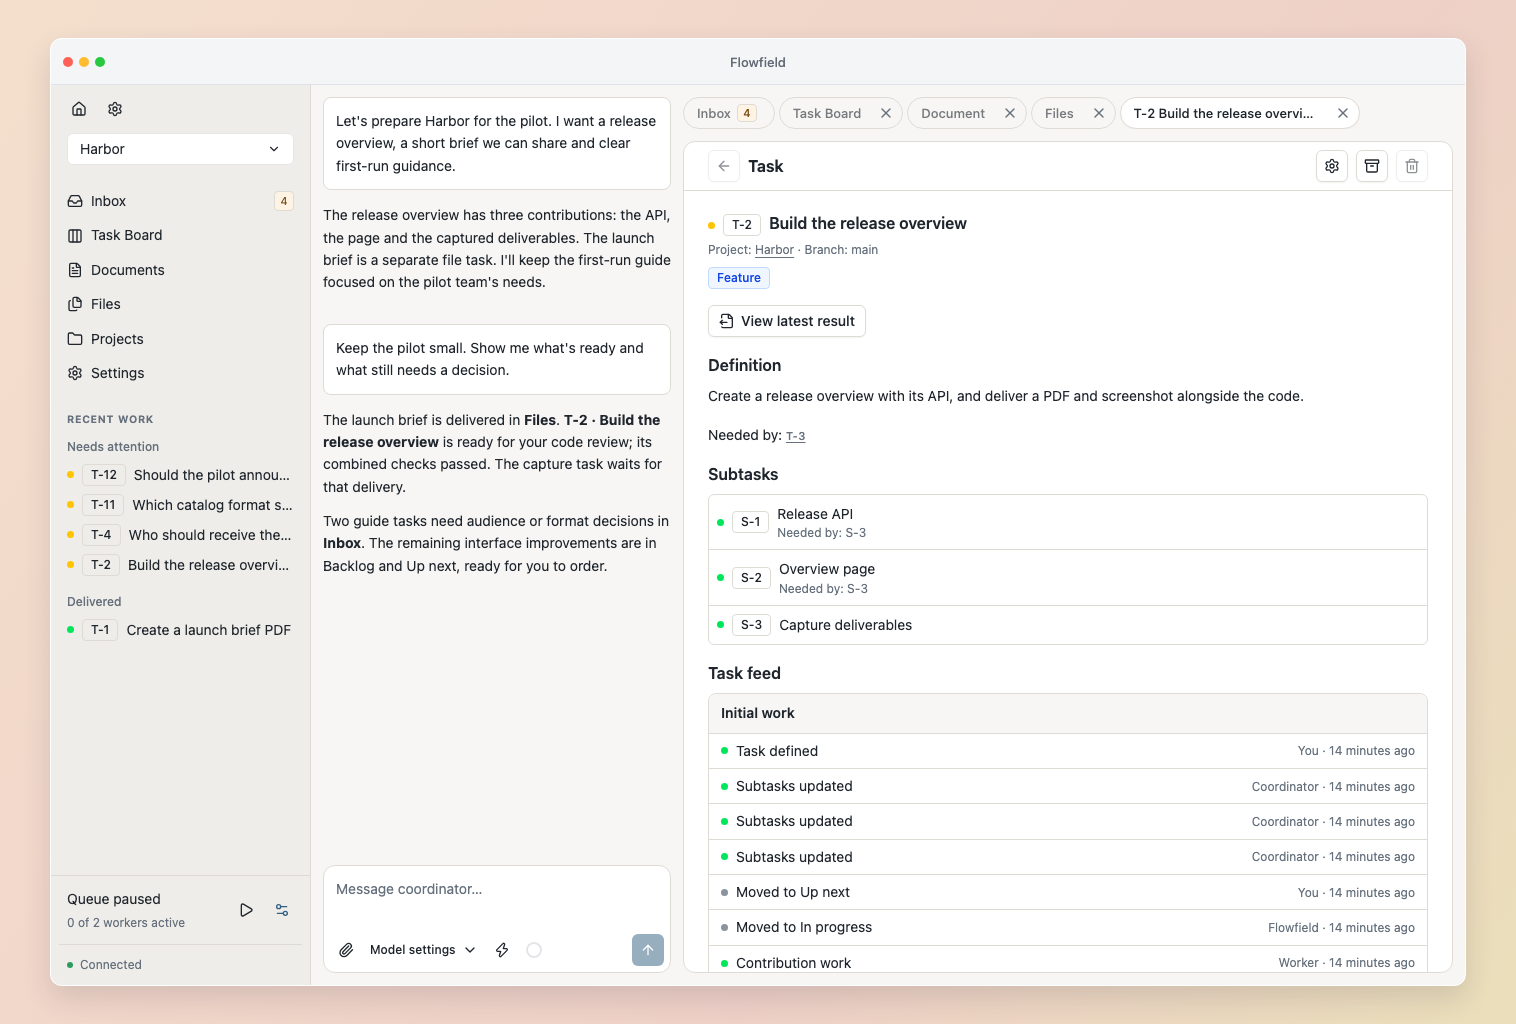
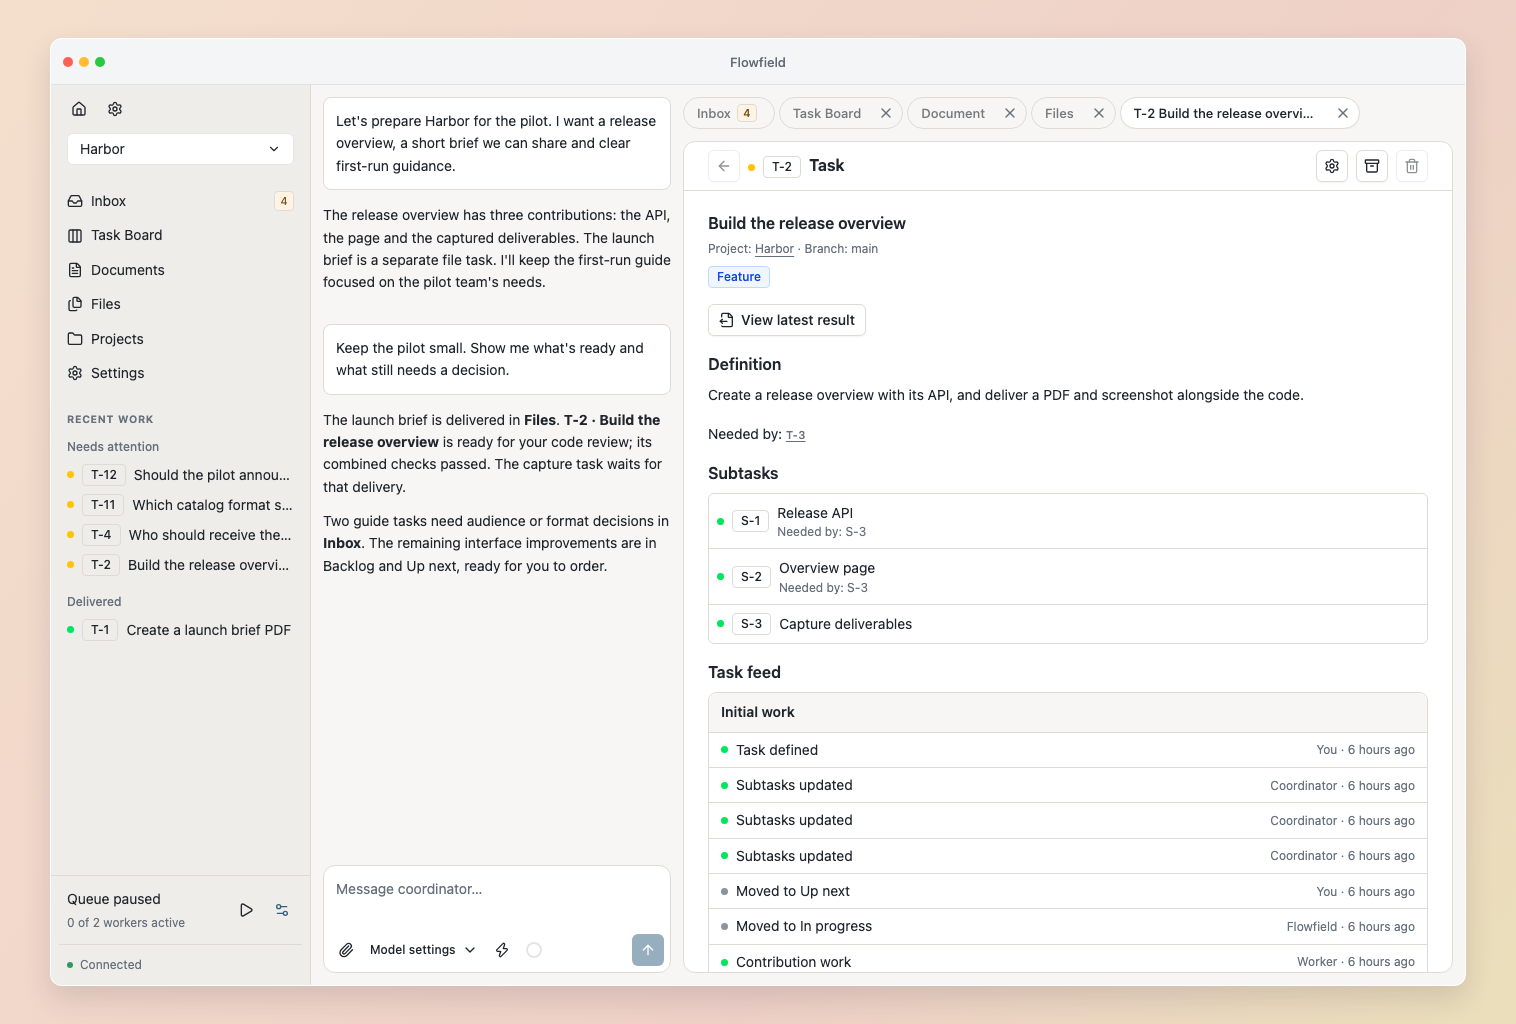
Correct task identity layout and simplify upgrade instructions

Changed region(s): [[0.465, 0.1562, 0.8681, 0.9688], [0.8061, 0.7188, 0.9301, 0.9688]]

diff --git a/web/e2e/collaboration.spec.ts b/web/e2e/collaboration.spec.ts
@@ -79,7 +79,7 @@ test("coordinator dependencies update blockers, links and reconciliation without
   await expect(
     detail.getByRole("img", { name: "Waiting on prerequisites", exact: true }),
   ).toHaveCount(1);
-  await expect(detail.locator(".task-summary .work-state")).toHaveCount(1);
+  await expect(detail.locator(".editor-heading .work-state")).toHaveCount(1);
   await detail.getByRole("link", { name: "T-3", exact: true }).hover();
   await expect(page.getByRole("tooltip")).toHaveText("Prepare export settings");
   await expect(detail.getByLabel("Add prerequisite")).toHaveCount(0);
@@ -150,7 +150,7 @@ test("coordinator dependencies update blockers, links and reconciliation without
   await page.goto(`/workspaces/${workspace}/tasks/T-2`);
   await expect(
     detail
-      .locator(".task-summary")
+      .locator(".editor-heading")
       .getByRole("img", { name: "Done", exact: true }),
   ).toHaveCount(1);
   await expect(
@@ -168,7 +168,7 @@ test("coordinator dependencies update blockers, links and reconciliation without
   await page.reload();
   await expect(
     detail
-      .locator(".task-summary")
+      .locator(".editor-heading")
       .getByRole("img", { name: "Done", exact: true }),
   ).toHaveCount(1);
 });

diff --git a/web/e2e/task-deletion.spec.ts b/web/e2e/task-deletion.spec.ts
@@ -26,10 +26,15 @@ test("permanent deletion confirms exact task and removes it from the board", asy
   expect(response.ok()).toBe(true);
   const task = await response.json();
   await page.goto(`${base}/tasks/${task.key}`);
-  await expect(page.locator(".editor-heading h2")).toHaveText("Task");
-  await expect(page.locator(".editor-heading .work-state")).toHaveCount(0);
-  await expect(page.locator(".task-summary .work-state")).toHaveCount(1);
-  await expect(page.locator(".task-summary h3")).toContainText(task.title);
+  await expect(page.locator(".editor-heading .work-key")).toContainText(
+    task.key,
+  );
+  await expect(page.locator(".editor-heading .work-identity-title")).toHaveText(
+    "Task",
+  );
+  await expect(page.locator(".editor-heading .work-state")).toHaveCount(1);
+  await expect(page.locator(".task-summary .work-state")).toHaveCount(0);
+  await expect(page.locator(".task-summary h3")).toHaveText(task.title);
   await expect(page.locator(".editor-heading .detail-metadata")).toHaveCount(0);
   await expect(page.locator(".task-summary .detail-metadata")).toContainText(
     "Project:",

diff --git a/web/src/TaskDetail.tsx b/web/src/TaskDetail.tsx
@@ -58,7 +58,16 @@ export function TaskDetail({
   return (
     <section className="editor task-detail">
       <DetailHeader
-        title="Task"
+        title={
+          <WorkIdentity
+            state={task.state}
+            itemKey={task.key}
+            keyBadge={
+              <DraftBadge publicationStatus={task.publication_status} />
+            }
+            title="Task"
+          />
+        }
         close={close}
         closeLabel="Back"
         actions={
@@ -127,16 +136,7 @@ export function TaskDetail({
       />
       <ContentStack className="task-summary">
         <DetailHeading
-          title={
-            <WorkIdentity
-              state={task.state}
-              itemKey={task.key}
-              keyBadge={
-                <DraftBadge publicationStatus={task.publication_status} />
-              }
-              title={task.title}
-            />
-          }
+          title={task.title}
           metadata={
             task.project_id && (
               <>

diff --git a/web/src/detail-layout.css b/web/src/detail-layout.css
@@ -640,7 +640,7 @@
 .task-header-badges {
   display: flex;
   flex-wrap: wrap;
-  gap: 8px;
+  gap: 4px;
   align-items: center;
 }
 .task-summary {
@@ -667,14 +667,11 @@
 .work-identity > .work-state {
   flex-shrink: 0;
 }
-.editor-heading .work-identity,
-.detail-title .work-identity {
+.editor-heading .work-identity {
   display: block;
 }
 .editor-heading .work-identity > .work-state,
-.editor-heading .work-identity > .work-key,
-.detail-title .work-identity > .work-state,
-.detail-title .work-identity > .work-key {
+.editor-heading .work-identity > .work-key {
   vertical-align: baseline;
   margin-right: 8px;
 }

diff --git a/web/e2e/review.spec.ts b/web/e2e/review.spec.ts
@@ -769,7 +769,7 @@ test("validated result approval delivers real Git code with the worker queue pau
       await expect(page).toHaveURL(`${workspacePath}/results/${seed.result}`);
       await page.goto(`${workspacePath}/tasks/T-1`);
       await expect(
-        page.locator('.task-summary [data-tone="complete"]'),
+        page.locator('.editor-heading [data-tone="complete"]'),
       ).toHaveCount(1);
       await page.screenshot({
         path: testInfo.outputPath(`delivered-task-${colorScheme}-${width}.png`),

diff --git a/web/src/Presentation.tsx b/web/src/Presentation.tsx
@@ -107,7 +107,7 @@ export function TaskIdentity({
   return (
     <span className="task-identity">
       <span className="task-identity-heading">
-        <span className="inline-flex items-center gap-2 align-baseline">
+        <span className="inline-flex items-center gap-1 align-baseline">
           <Badge variant="outline">{task.key}</Badge>
           <DraftBadge publicationStatus={task.publication_status} />
         </span>{" "}

diff --git a/web/src/WorkIdentity.tsx b/web/src/WorkIdentity.tsx
@@ -22,7 +22,7 @@ export function WorkIdentity({
     <span className="work-identity">
       <WorkState state={state} indicatorOnly decorative={decorative} />
       {itemKey && (
-        <span className="work-key inline-flex shrink-0 items-center gap-2">
+        <span className="work-key inline-flex shrink-0 items-center gap-1">
           <Badge variant="outline">{itemKey}</Badge>
           {keyBadge}
         </span>

diff --git a/web/src/RecordTitle.tsx b/web/src/RecordTitle.tsx
@@ -11,7 +11,7 @@ export function RecordTitle({ children }: { children: string }) {
           {match[1]}{" "}
           <Badge
             variant="outline"
-            className="px-1 py-0 align-middle font-normal"
+            className="h-4 overflow-visible px-1 py-0 align-baseline text-[11px] leading-none font-normal"
           >
             <span className="sr-only">#</span>
             {match[2]}

diff --git a/web/e2e/task-feed.spec.ts b/web/e2e/task-feed.spec.ts
@@ -748,7 +748,7 @@ test("attempt activity updates without reloading the board and replays on reload
     "data-message-id",
     `attempt:${seeded.run_id}`,
   );
-  await expect(page.locator(".task-summary .work-state")).toHaveCount(1);
+  await expect(page.locator(".editor-heading .work-state")).toHaveCount(1);
   await closeOverlay(page);
   const activeCard = page
     .locator(".task-card")

diff --git a/CHANGELOG.md b/CHANGELOG.md
@@ -4,24 +4,24 @@
 
 ### Features
 
-- Permanently delete unneeded tasks from the task header or CLI, with confirmation. Deletion removes their history, results, retained files and inspection copies while preserving delivered repository code. Active work and referenced evidence block deletion; interrupted cleanup resumes automatically.
+- Permanently delete tasks from the task header or CLI, including their history, files and inspection copies. Delivered code stays in the repository.
 
 ### Improvements
 
-- Open the latest saved result directly from a task. Task and result pages share a consistent title and destination layout; feedback names its exact result, and numbered feed references are easier to scan.
-- Review supporting files, review evidence and code changes together under Details, with fewer competing disclosures and clearer next actions.
-- Save worker model, capacity and startup preferences together. Available updates remain visible through indicators on Settings and its Updates tab.
+- Open the latest result directly from a task. Task and result pages share a consistent layout, and feedback identifies its result.
+- Find supporting files, review evidence and code changes together under Details.
+- Save worker model, capacity and startup preferences in one form. Settings indicators keep available updates visible.
 
 ### Bug fixes
 
-- Keep Board and Inbox available during approval and review updates instead of failing with a database-lock error.
-- Keep preparation, validation and independent assessment in In progress, and reserve In review for human decisions and pending delivery. Show completed tasks consistently as Done.
-- Withdraw obsolete result actions while a correction is running, and prevent older review activity from moving the task back into review.
-- Preserve completed deliveries when the destination or settings change, without misleading destination warnings. Unfinished dependent work still checks whether the delivered code can be reused.
+- Keep Board and Inbox available during approval and review updates.
+- Keep automated checks in In progress and human decisions in In review. Show completed tasks consistently as Done.
+- Remove obsolete result actions during corrections and prevent older reviews from changing the current task state.
+- Remove misleading destination warnings from completed deliveries.
 
 ### Upgrade
 
-Stop Flowfield and back up its data directory before updating. Existing 0.6.0 and 0.7.0 stores upgrade in place with a verified database recovery copy. The upgraded database requires this release or newer; returning to an older build requires its matching backup. See [storage and recovery](https://docs.flowfield.sh/storage#updating-and-recovery).
+Stop Flowfield, run `uv tool upgrade flowfield-core`, then start it with `flowfield serve`. See [updating Flowfield](https://docs.flowfield.sh/installation#update) for other installation methods.
 
 ## 0.7.0
 
